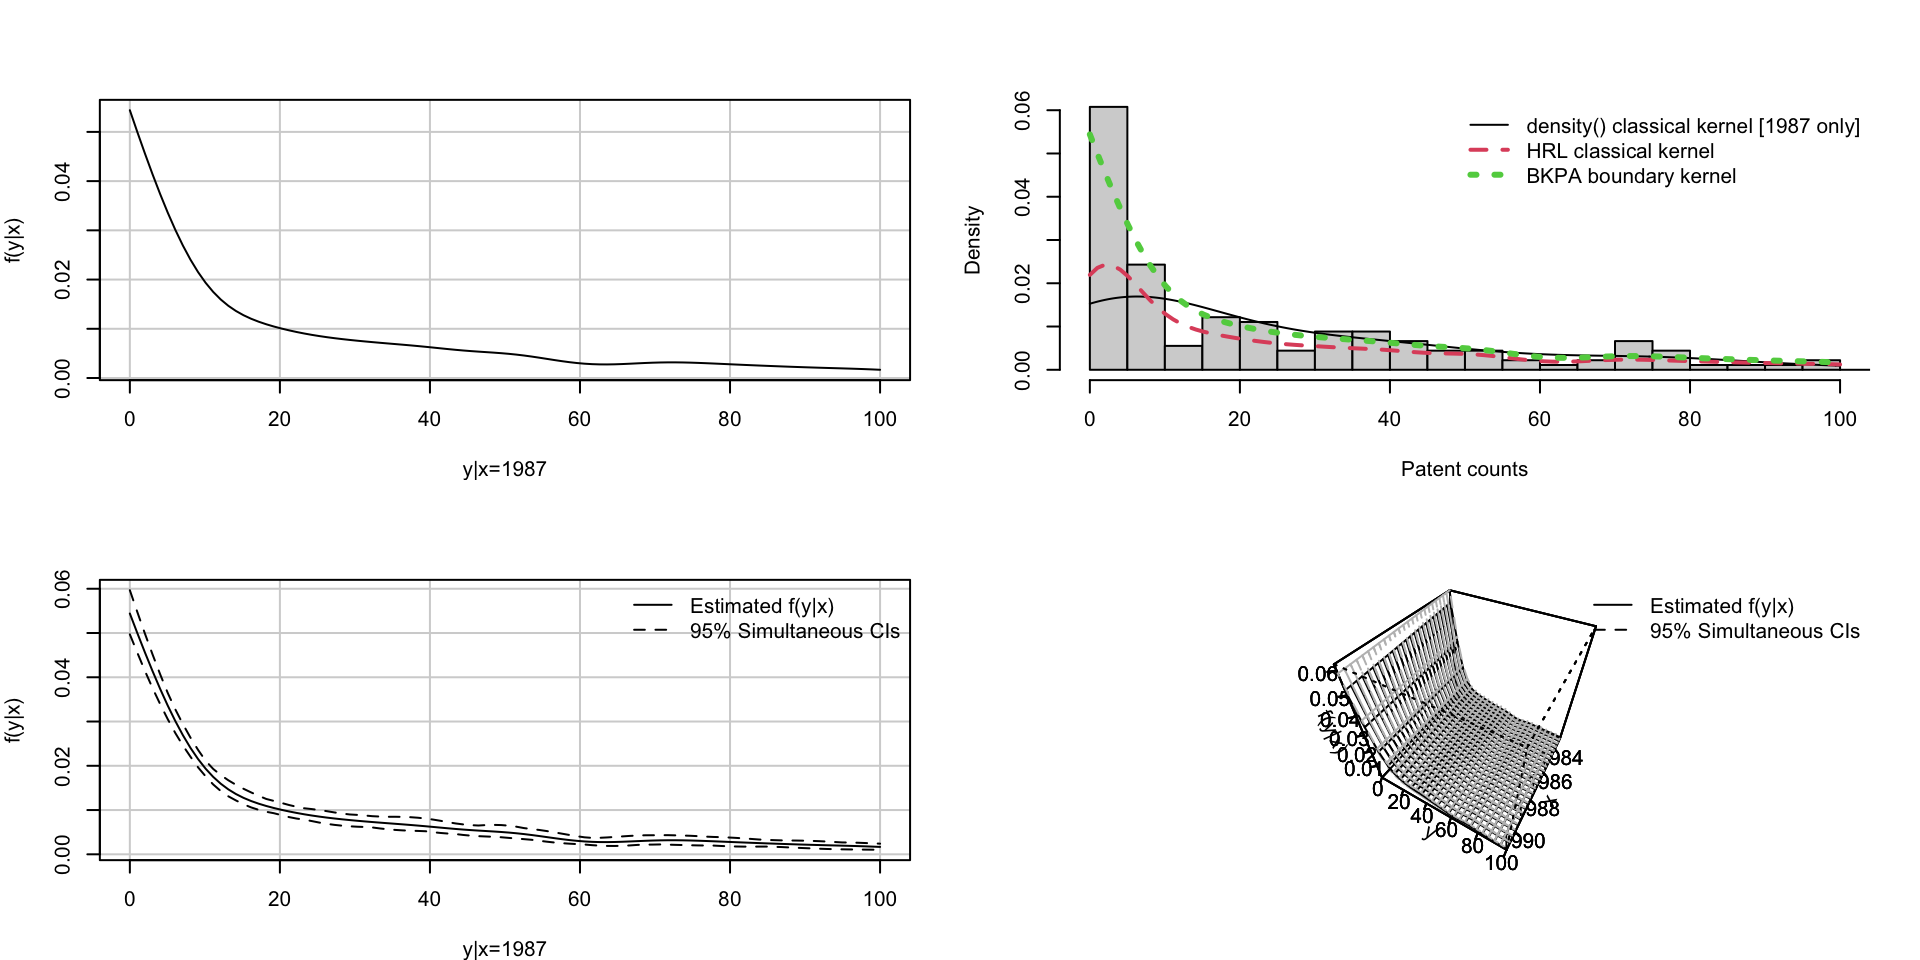
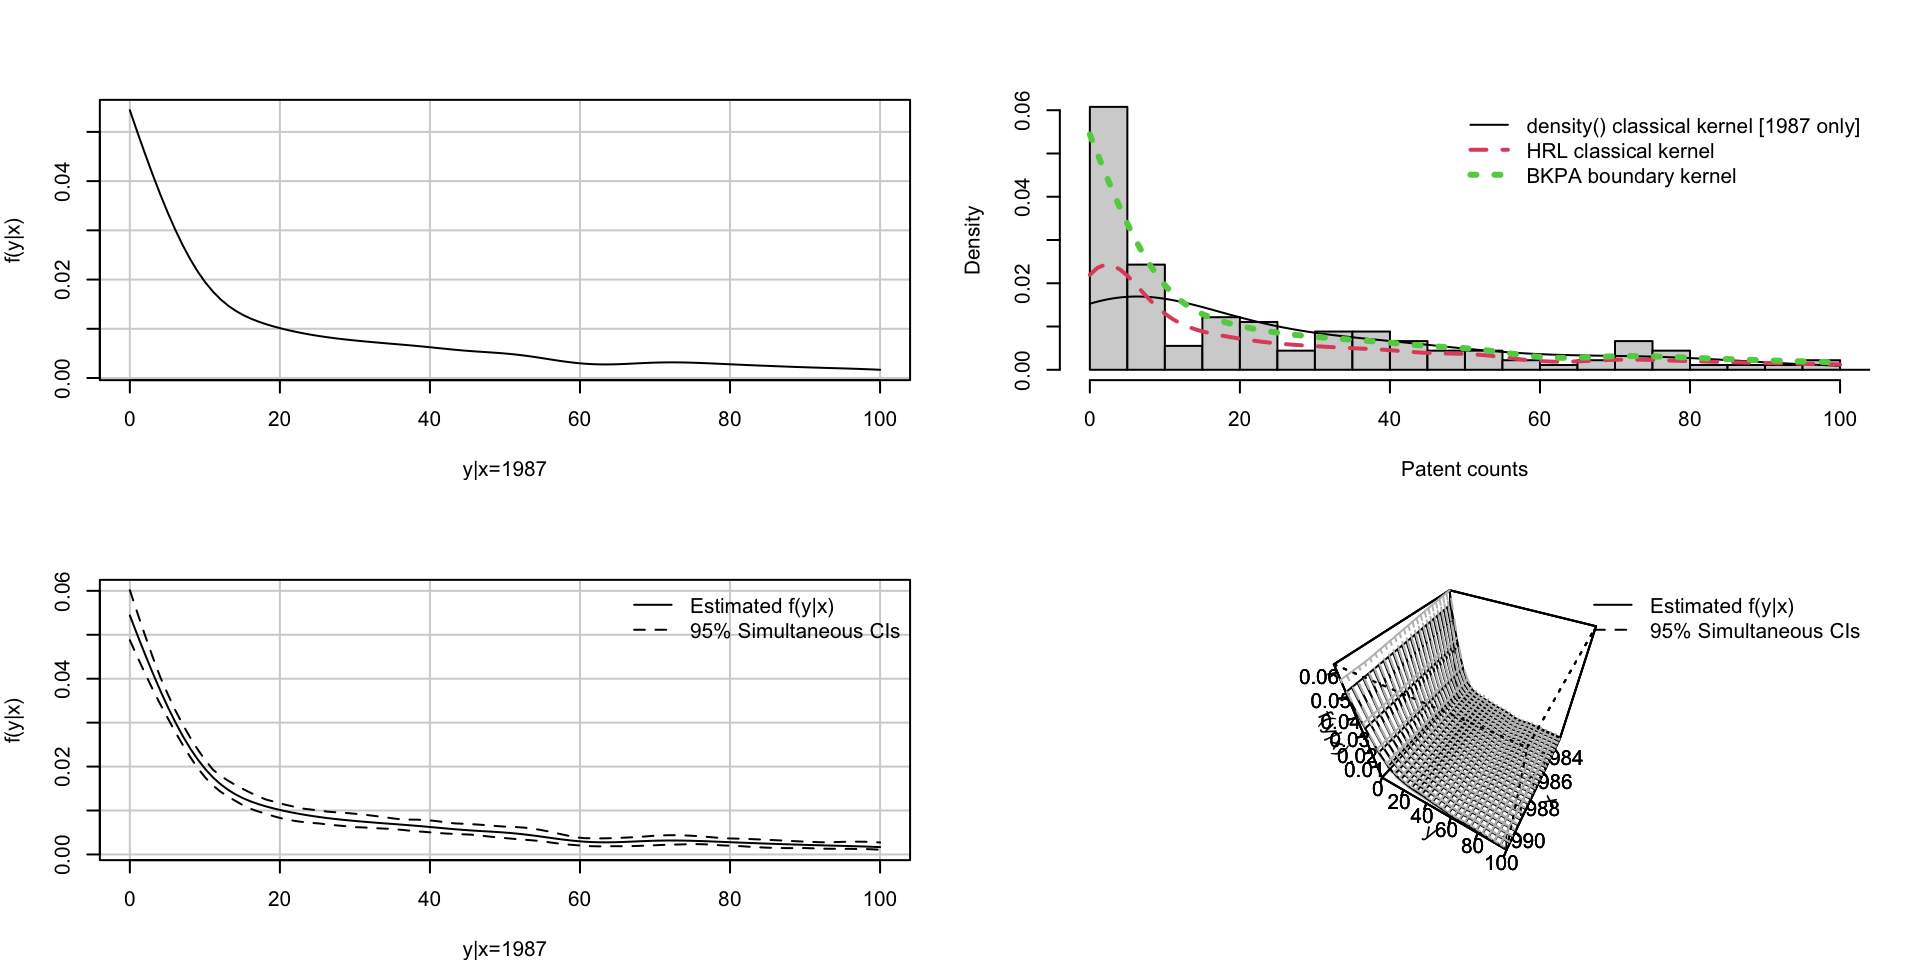
Updated for Mar 12 2026 McMaster Stats presentation

Changed region(s): [[0.0312, 0.6562, 0.4688, 0.9062], [0.6562, 0.625, 0.8125, 0.875], [0.0312, 0.5938, 0.4688, 0.625]]

diff --git a/index-speaker.html b/index-speaker.html
@@ -254,7 +254,7 @@ Qi Li<sup>3</sup>
     </div>
 </div>
 
-  <p class="date">Updated March 09, 2026</p>
+  <p class="date">Updated March 12, 2026</p>
 </section><section><section id="slide-pro-tips" class="title-slide slide level1 center"><h1>Slide Pro-Tips</h1>
 <ul>
 <li><p>View <strong>full screen</strong> in A2L by clicking on the slide and then pressing the F key (press the Esc key to revert)</p></li>
@@ -870,7 +870,7 @@ Figure&nbsp;8: Conditional KDE for patent data with simultaneous confidence inte
 </ul></section><section id="simulation-details-1" class="slide level2 center"><h2>Simulation Details</h2>
 <ul>
 <li class="fragment"><p>We present a range of simulations for the beta and Gaussian densities, <span class="math inline">\(f(y|x)\)</span>, with x being irrelevant, i.e.&nbsp;<span class="math inline">\(f(y|x)=f(y)\)</span>, or the mean of <span class="math inline">\(f(y|x)\)</span> being quadratic in <span class="math inline">\(x\)</span></p></li>
-<li class="fragment"><p>We consider sample sizes of <span class="math inline">\(n=100,200,400,800\)</span></p></li>
+<li class="fragment"><p>We consider sample sizes of <span class="math inline">\(n=400,800,1600\)</span></p></li>
 <li class="fragment">
 <p>We conduct <span class="math inline">\(M\)</span> Monte Carlo replications for each scenario and compare</p>
 <ul>

diff --git a/index.html b/index.html
@@ -254,7 +254,7 @@ Qi Li<sup>3</sup>
     </div>
 </div>
 
-  <p class="date">Updated March 09, 2026</p>
+  <p class="date">Updated March 12, 2026</p>
 </section><section><section id="slide-pro-tips" class="title-slide slide level1 center"><h1>Slide Pro-Tips</h1>
 <ul>
 <li><p>View <strong>full screen</strong> in A2L by clicking on the slide and then pressing the F key (press the Esc key to revert)</p></li>
@@ -870,7 +870,7 @@ Figure&nbsp;8: Conditional KDE for patent data with simultaneous confidence inte
 </ul></section><section id="simulation-details-1" class="slide level2 center"><h2>Simulation Details</h2>
 <ul>
 <li class="fragment"><p>We present a range of simulations for the beta and Gaussian densities, <span class="math inline">\(f(y|x)\)</span>, with x being irrelevant, i.e.&nbsp;<span class="math inline">\(f(y|x)=f(y)\)</span>, or the mean of <span class="math inline">\(f(y|x)\)</span> being quadratic in <span class="math inline">\(x\)</span></p></li>
-<li class="fragment"><p>We consider sample sizes of <span class="math inline">\(n=100,200,400,800\)</span></p></li>
+<li class="fragment"><p>We consider sample sizes of <span class="math inline">\(n=400,800,1600\)</span></p></li>
 <li class="fragment">
 <p>We conduct <span class="math inline">\(M\)</span> Monte Carlo replications for each scenario and compare</p>
 <ul>
